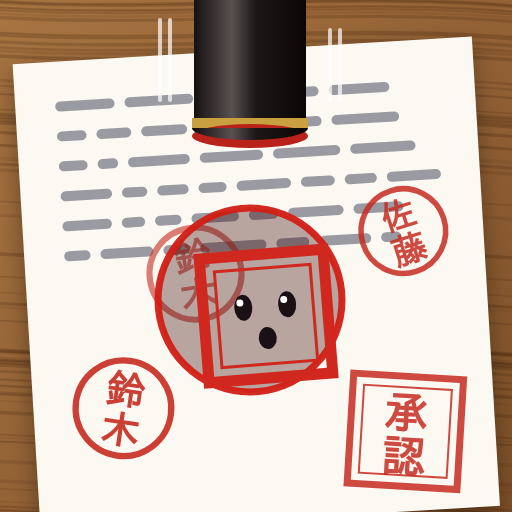
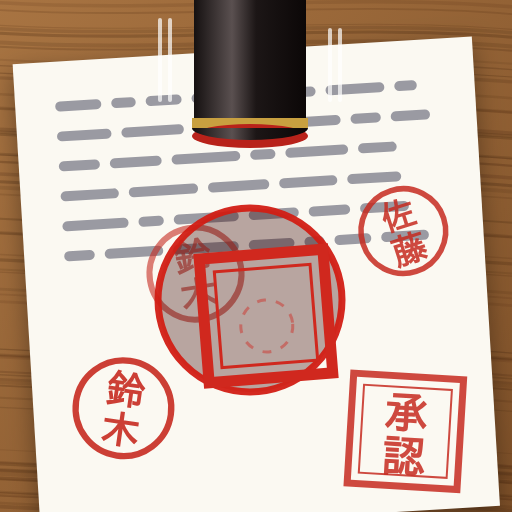
ハンコう期: 枠の顔を外す
Claude-Session: https://claude.ai/code/session_018pgCBzcyNYaKwDjhoUbZdR

diff --git a/games/hanko-hankouki/index.html b/games/hanko-hankouki/index.html
@@ -428,14 +428,6 @@
     const frameG = new THREE.Group(); paperG.add(frameG);
     const framePlane = new THREE.Mesh(new THREE.PlaneGeometry(F * 2, F * 2), new THREE.MeshBasicMaterial({ map: frameTex, transparent: true, depthWrite: false, toneMapped: false }));
     framePlane.rotation.x = -Math.PI / 2; framePlane.position.y = 0.0015; framePlane.renderOrder = 2; frameG.add(framePlane);
-    const EYE_M = new THREE.MeshBasicMaterial({ color: '#1a1016' }), SHINE = new THREE.MeshBasicMaterial({ color: '#fff' });
-    const fEyes = [-1, 1].map(s => {
-      const e = new THREE.Group(); e.position.set(s * 0.018, 0.004, -0.014); frameG.add(e);
-      const ball = part(SPH, EYE_M, 0, 0, 0, 0.0075, 0.003, 0.0095, e);
-      part(SPH, SHINE, -0.0025, 0.002, -0.003, 0.0025, 0.001, 0.0025, e);
-      return { e, ball };
-    });
-    const fMouth = part(SPH, EYE_M, 0, 0.003, 0.012, 0.007, 0.002, 0.003, frameG);
     // 開始待ちの間だけ、動けることを示す4つの矢印
     const chevG = new THREE.Group(); frameG.add(chevG);
     const chevM = new THREE.MeshBasicMaterial({ color: '#d0281e', transparent: true, depthWrite: false });
@@ -715,7 +707,7 @@
     // ---------- ゲーム ----------
     // state: intro（寸劇）→ ready（最初の操作待ち）→ play → over（押された演出）→ result
     let state = 'intro', introT = 0, introVoiced = false, elapsed = 0, overT = 0, hitBy = null, resultT = 0, readyT = 0;
-    const frame = { x: 0, z: 0, px: 0, pz: 0, vx: 0, vz: 0, tx: 0, tz: 0, eyes: 0, shiver: 0, voiceCd: 0 };
+    const frame = { x: 0, z: 0, px: 0, pz: 0, vx: 0, vz: 0, tx: 0, tz: 0, shiver: 0, voiceCd: 0 };
     const FRAME_START = { x: 0.3, z: PZ + 0.2 };
     const VMAX = 0.95;
     const keys = new Set();
@@ -742,7 +734,7 @@
       resultEl.style.display = 'none';
       b1.style.display = b2.style.display = 'none';
       if (withIntro) {
-        state = 'intro'; introT = 0; introVoiced = !!ac; viewName = 'intro'; paperT = 0; frame.eyes = 0;
+        state = 'intro'; introT = 0; introVoiced = !!ac; viewName = 'intro'; paperT = 0;
       } else {
         toReady(true);
       }
@@ -750,7 +742,7 @@
     }
     // 「よし」と言ってハンコを構えたら、最初の操作を待つ
     function toReady(sayYoshi) {
-      state = 'ready'; readyT = 0; paperT = 1; viewName = 'play'; frame.eyes = 1;
+      state = 'ready'; readyT = 0; paperT = 1; viewName = 'play';
       b1.style.display = 'none';
       st.kacho.phase = 'hover'; st.kacho.t = 0;
       if (sayYoshi) { sayB2('say4'); talk(kacho, speak(F_KACHO, t('v4'), 0.16, 0.5, -0.05)); }
@@ -767,7 +759,7 @@
 
     function tapIntro() {
       // 音が出せるようになる前に始まった寸劇は、最初のタップで声つきで言い直す（飛ばせるのは2回目から）
-      if (!introVoiced && soundOn) { introVoiced = true; b1.style.display = b2.style.display = 'none'; introT = 0; paperT = 0; frame.eyes = 0; viewName = 'intro'; return; }
+      if (!introVoiced && soundOn) { introVoiced = true; b1.style.display = b2.style.display = 'none'; introT = 0; paperT = 0; viewName = 'intro'; return; }
       toReady(true);
     }
 
@@ -850,7 +842,6 @@
     }
     function gameOver(s) {
       state = 'over'; overT = 0; hitBy = s;
-      frame.eyes = -1;
       sStamp(s.cfg.snd * 1.3);
       speak(F_WAKU, 'iaa', 0.1, 0.35, 0.5);
       shake = Math.max(shake, 0.02);
@@ -957,7 +948,7 @@
         if (at(2.8)) { sayB2('say2'); talk(kacho, speak(F_KACHO, t('v2'), 0.15, 0.45)); }
         if (at(4.0)) { sayB2('say3'); viewName = 'stare'; }
         if (at(5.6)) { sayB2('say4'); talk(kacho, speak(F_KACHO, t('v4'), 0.16, 0.5, -0.05)); st.kacho.phase = 'hover'; st.kacho.t = 0; }
-        if (at(6.0)) { frame.eyes = 1; speak(F_WAKU, 'i', 0.1, 0.3, 0.5); frame.shiver = 0.5; }
+        if (at(6.0)) { speak(F_WAKU, 'i', 0.1, 0.3, 0.5); frame.shiver = 0.5; }
         if (introT >= 6.8) { toReady(false); }
       }
       if (state === 'ready') { readyT += dt; if (readyT > 1.2) b2.style.display = 'none'; }
@@ -1116,18 +1107,6 @@
       frameG.position.set(fxp - PAPER_HOME.x + rnd(-sh, sh), 0, fzp - PAPER_HOME.z + rnd(-sh, sh));
       const spd = Math.hypot(frame.vx, frame.vz);
       frameG.rotation.y = state === 'play' || state === 'ready' ? Math.sin(now * 18) * Math.min(0.12, spd * 0.15) : 0;
-      // 目: 一番近い脅威を見る。押されたら「><」
-      let look = null, best = 9;
-      for (const id of ORDER) { const s = st[id]; if (s.tele.visible) { const d = Math.hypot(s.pos.x - frame.x, s.pos.z - frame.z); if (d < best) { best = d; look = s; } } }
-      const lx = look ? clamp((look.pos.x - frame.x) * 0.15, -0.004, 0.004) : 0, lz = look ? clamp((look.pos.z - frame.z) * 0.15, -0.004, 0.004) : 0;
-      fEyes.forEach(({ e, ball }, i) => {
-        e.position.set((i ? 1 : -1) * 0.018 + lx, 0.004, -0.014 + lz);
-        if (frame.eyes === 0) { ball.scale.set(0.009, 0.002, 0.0018); e.rotation.y = 0; }
-        else if (frame.eyes < 0) { ball.scale.set(0.009, 0.002, 0.0022); e.rotation.y = (i ? -1 : 1) * 0.5; }
-        else { const blink = (now % 3.2) < 0.1 ? 0.15 : 1; ball.scale.set(0.0075, 0.003, (look && best < 0.25 ? 0.012 : 0.0095) * blink); e.rotation.y = 0; }
-        e.children[1].visible = frame.eyes > 0;
-      });
-      fMouth.scale.set(frame.eyes < 0 ? 0.012 : look && best < 0.25 ? 0.006 : 0.007, 0.002, frame.eyes < 0 ? 0.006 : look && best < 0.25 ? 0.006 : 0.0025);
       chevG.visible = state === 'ready';
       if (chevG.visible) { chevM.opacity = 0.45 + 0.45 * Math.abs(Math.sin(now * 3)); chevG.children.forEach(h => h.children[0].position.z = -F - 0.02 - Math.abs(Math.sin(now * 3)) * 0.01); }
 
